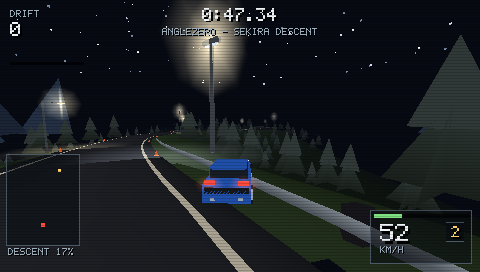
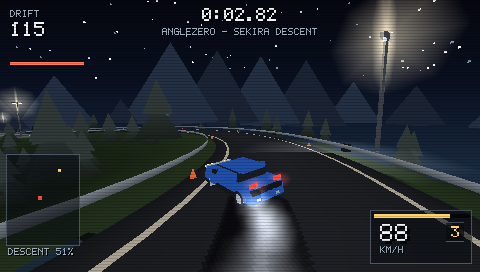
Add a release script, and take the README screenshot mid-drift
`scripts/release.sh` builds without devtools, runs the tests and packages the
EBOOT as dist/AngleZero.<version>.zip laid out as PSP/GAME/AngleZero/EBOOT.PBP,
so unzipping it at the root of a memory stick puts the game where the XMB looks.
The folder inside PSP/GAME is not optional: a bare .PBP there is not listed.

The README image was the parked car on the title screen, which showed the road
but not the game. It is now a frame from a run — sideways through a right-hander
at 88 km/h with the combo counting, skid marks behind and the descent half done.

The frame was found rather than staged: a grid search over corner, handbrake
timing and steering angle, scored for a held slide instead of a spin, picked the
corner at node 1338 and the inputs that produce 34 degrees of slip while still
on the tarmac and still pointing down the road.

diff --git a/docs/building.md b/docs/building.md
@@ -71,3 +71,22 @@ memory-stick directory instead.
 
 Best time, score and combo persist to `ms0:/PSP/SAVEDATA/ANGLEZERO/RECORD.BIN` and show on the
 title and results screens.
+
+## Cutting a release
+
+```bash
+scripts/release.sh
+```
+
+Builds without `devtools`, runs the tests, and writes `dist/AngleZero.<version>.zip`. The version
+comes from `Cargo.toml` unless you pass one (`scripts/release.sh 0.2.0`).
+
+The archive holds a single file:
+
+```
+PSP/GAME/AngleZero/EBOOT.PBP
+```
+
+Unzip it at the root of a memory stick and the game is where the XMB looks for it. The `AngleZero`
+folder is not optional — a `.PBP` sitting directly in `PSP/GAME` is not listed, and the folder name
+is what the XMB shows under the icon.

diff --git a/README.md b/README.md
@@ -6,7 +6,7 @@ One car, one road: 3.5 km of switchbacks down Sekira Pass, generated at boot rat
 a mesh. Gravity does the driving — the car builds speed downhill with no throttle at all — and
 points come from holding a slide, with the guard rails there to take them away again.
 
-![The road down Sekira Pass](docs/screenshot.png)
+![Holding a slide through a right-hander on Sekira Pass](docs/screenshot.png)
 
 ## Quick start
 
